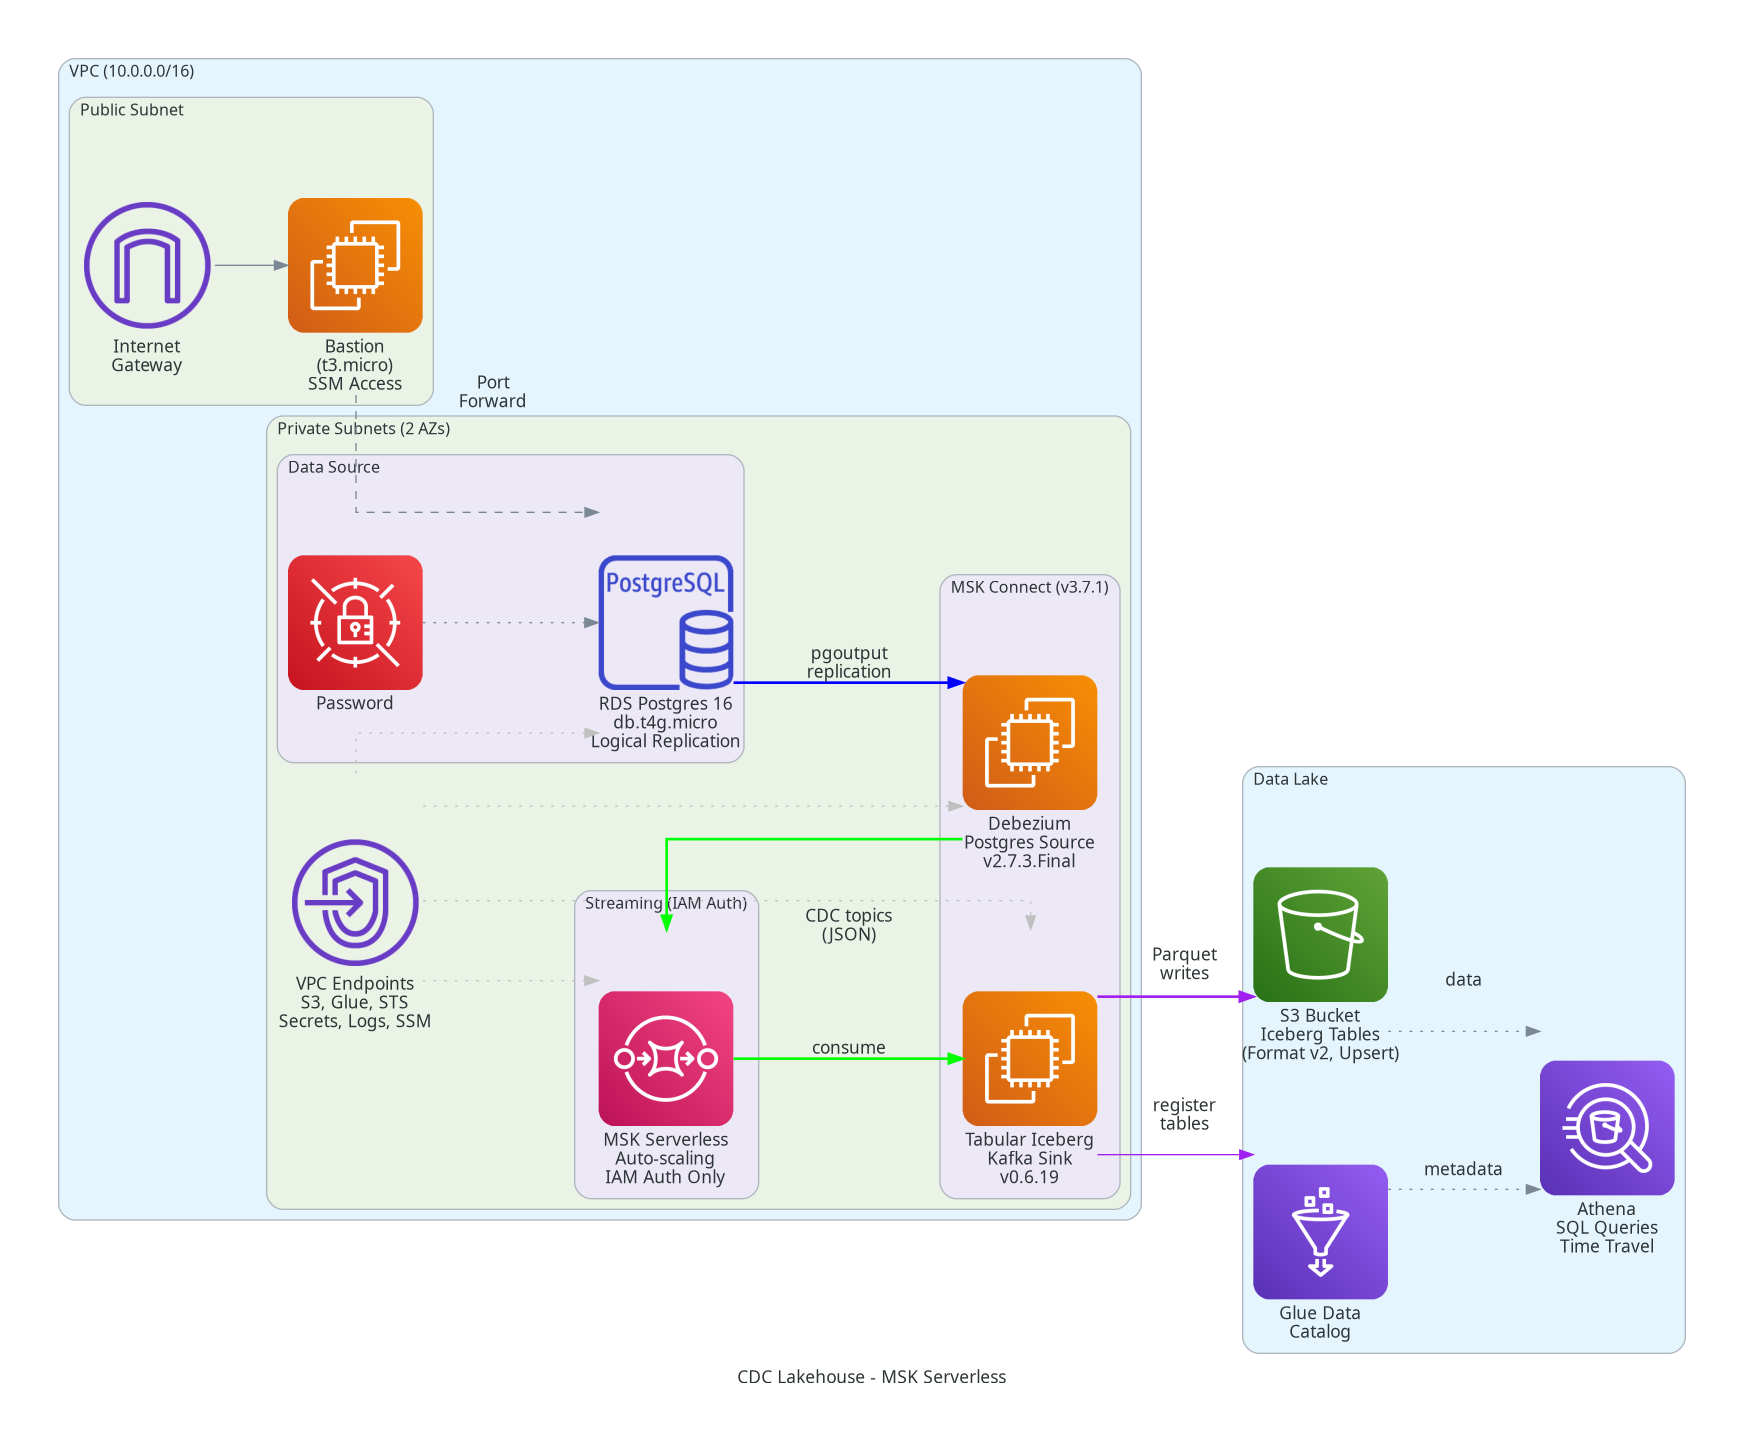
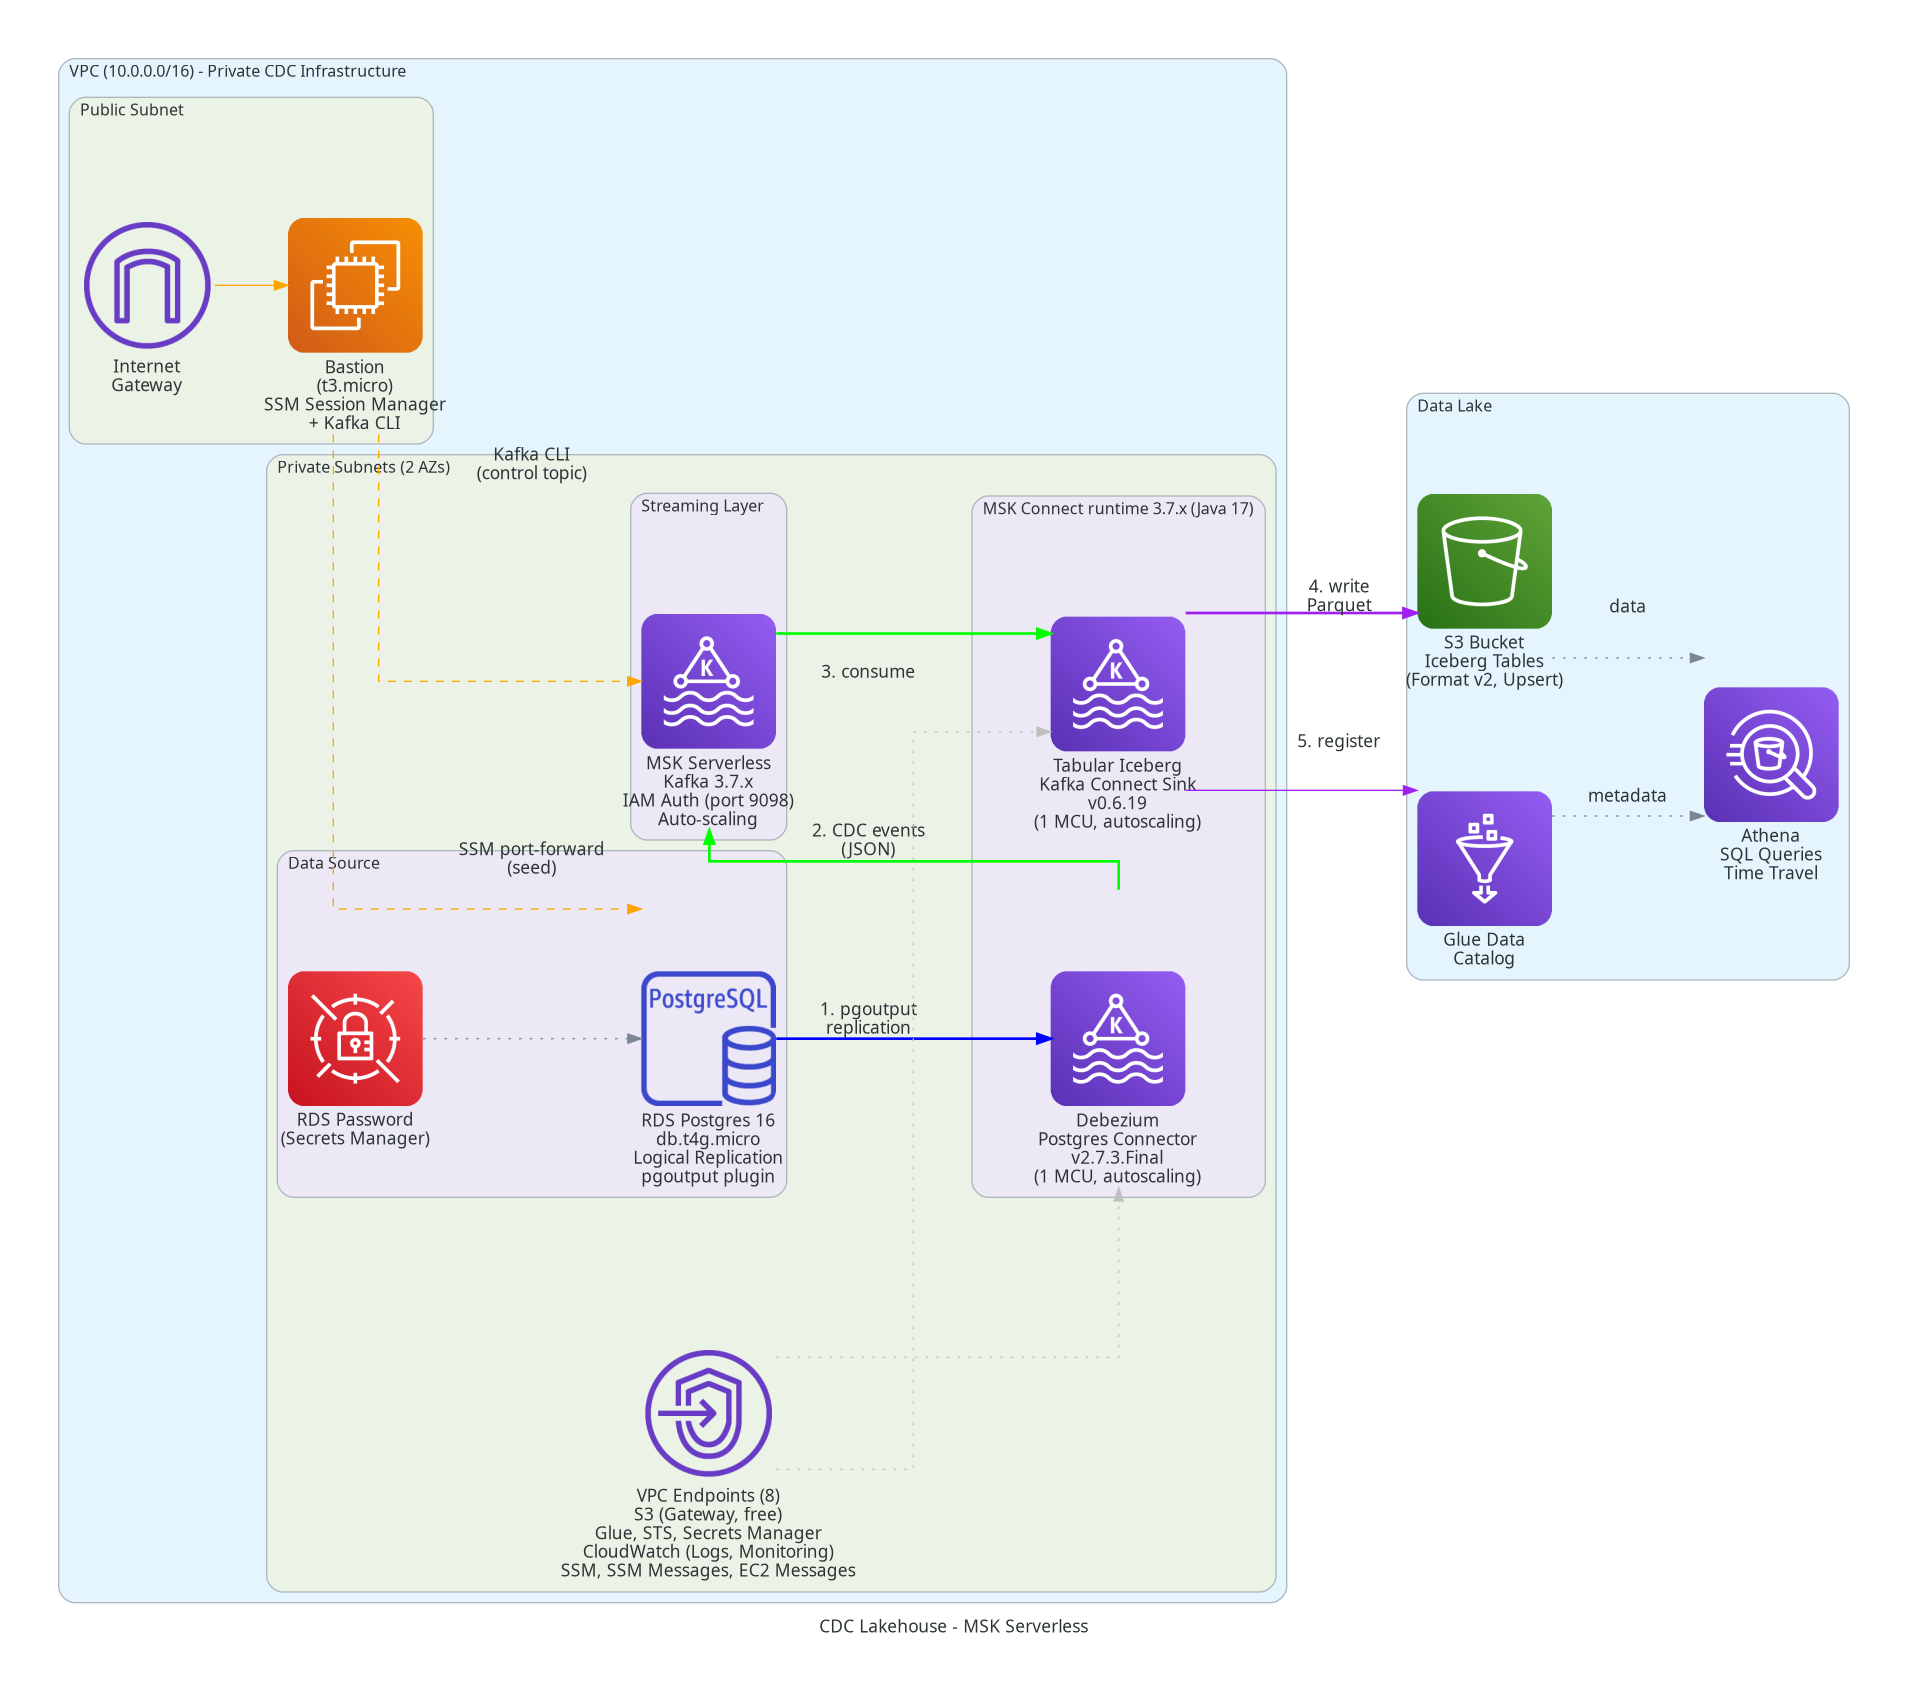
fix: endpoint counts, costs, diagram, glue region
SHOULD-FIX (completed):
- VPC endpoints: Correct count to 8 interface endpoints (was 6)
  - Added CloudWatch Monitoring and EC2 Messages to docs
  - Cost: 8 × 2 AZs × $0.01/hr = $0.16/hr (was $0.12/hr)
  - Total estimated cost: ~$1.17-1.20/hr (was $1.15/hr)
  - Update doctor.sh quota check for 8 endpoints
- Architecture diagram: Regenerate with 8 endpoints, MSK Connect icons
  - Use diagrams.aws.analytics.ManagedStreamingForKafka for connectors
  - Label runtime as 3.7.x (not v3.7.1)
  - Update endpoint list and note S3 Gateway is free
- Glue destroy provisioner: Add --region flag to aws glue commands

Updated in: README, CHANGELOG, doctor.sh, architecture.py, glue module

Changed region(s): [[0.031, 0.0312, 0.9908, 0.9681], [0.3406, 0.2811, 0.4025, 0.3123]]

diff --git a/docs/architecture.py b/docs/architecture.py
@@ -58,25 +58,25 @@ with Diagram(
                     "Auto-scaling"
                 )
             
-            with Cluster("MSK Connect (runtime 3.7.x, Java 17)"):
-                debezium = EC2(
-                    "Debezium\nPostgres Source\n" +
+            with Cluster("MSK Connect runtime 3.7.x (Java 17)"):
+                debezium = ManagedStreamingForKafka(
+                    "Debezium\nPostgres Connector\n" +
                     "v2.7.3.Final\n" +
-                    "(1 MCU)"
+                    "(1 MCU, autoscaling)"
                 )
                 
-                iceberg_sink = EC2(
-                    "Tabular Iceberg\nKafka Sink\n" +
+                iceberg_sink = ManagedStreamingForKafka(
+                    "Tabular Iceberg\nKafka Connect Sink\n" +
                     "v0.6.19\n" +
-                    "(1 MCU)"
+                    "(1 MCU, autoscaling)"
                 )
             
             endpoints = Endpoint(
-                "VPC Endpoints (6)\n" +
-                "S3 (Gateway)\n" +
-                "Glue, STS, Secrets\n" +
-                "CloudWatch Logs\n" +
-                "SSM (3 endpoints)"
+                "VPC Endpoints (8)\n" +
+                "S3 (Gateway, free)\n" +
+                "Glue, STS, Secrets Manager\n" +
+                "CloudWatch (Logs, Monitoring)\n" +
+                "SSM, SSM Messages, EC2 Messages"
             )
     
     with Cluster("Data Lake"):

diff --git a/README.md b/README.md
@@ -62,11 +62,11 @@ This is v0.1.0—a solid foundation, not a complete production system.
 ### Connectivity
 
 - **Private VPC** with no NAT gateway (cost optimization)
-- **VPC Endpoints**: S3 Gateway, plus 6 Interface endpoints for Glue, STS, Secrets Manager, CloudWatch Logs, SSM (3 endpoints for Session Manager)
+- **VPC Endpoints**: S3 Gateway (free), plus 8 Interface endpoints (Glue, STS, Secrets Manager, CloudWatch Logs, CloudWatch Monitoring, SSM, SSM Messages, EC2 Messages)
 - **Bastion**: t3.micro EC2 instance in a public subnet with public IP for SSM Session Manager port forwarding to RDS
 - **MSK Connect** runs in private subnets with IAM-based Kafka authentication
 
-**Design choice**: 6 interface endpoints × 2 AZs × $0.01/hr = $0.12/hr vs NAT Gateway at $0.045/hr + data transfer. Endpoints are more expensive for always-on production use but simpler for short tests and this demo architecture avoids NAT Gateway complexity. For long-running production, evaluate NAT Gateway + fewer endpoints.
+**Design choice**: 8 interface endpoints × 2 AZs × $0.01/hr = $0.16/hr vs NAT Gateway at $0.045/hr + data transfer. Endpoints are more expensive for always-on production use but simpler for short tests and this demo architecture avoids NAT Gateway complexity. For long-running production, evaluate NAT Gateway + fewer endpoints.
 
 ## Architecture Decisions
 
@@ -254,20 +254,20 @@ Based on **AWS us-east-1 pricing as of 2026-09-28** ([pricing pages cited below]
 | MSK Serverless partition-hours (~15) | $0.023/hour | [MSK Pricing](https://aws.amazon.com/msk/pricing/) |
 | MSK Connect (2 MCU-hours) | $0.220/hour | [MSK Pricing](https://aws.amazon.com/msk/pricing/) |
 | **Networking** | | |
-| VPC Interface Endpoints (6 × 2 AZs) | $0.120/hour | [VPC Pricing](https://aws.amazon.com/vpc/pricing/) |
+| VPC Interface Endpoints (8 × 2 AZs) | $0.160/hour | [VPC Pricing](https://aws.amazon.com/vpc/pricing/) |
 | Public IPv4 address | $0.005/hour | [VPC Pricing](https://aws.amazon.com/vpc/pricing/) |
 | **Storage & Queries** | | |
 | S3 Standard storage | $0.023/GB/month | [S3 Pricing](https://aws.amazon.com/s3/pricing/) |
 | Athena queries | $5.00/TB scanned | [Athena Pricing](https://aws.amazon.com/athena/pricing/) |
 | CloudWatch Logs | $0.50/GB ingested | [CloudWatch Pricing](https://aws.amazon.com/cloudwatch/pricing/) |
 
-**Total estimated hourly cost**: ~$1.15/hour  
+**Total estimated hourly cost**: ~$1.17-1.20/hour (estimate; actual cost depends on MSK Serverless partition count and data transfer)  
 **Estimated cost for 1-hour test**: ~$1.20
 
 **Breakdown details**:
 - MSK Serverless: $0.75/cluster-hr + (15 partitions × $0.0015/partition-hr) = $0.773/hr
 - MSK Connect: 2 connectors × 1 MCU each × $0.11/MCU-hr = $0.22/hr
-- VPC Endpoints: 6 endpoints × 2 AZs × $0.01/endpoint-AZ-hr = $0.12/hr
+- VPC Endpoints: 8 endpoints × 2 AZs × $0.01/endpoint-AZ-hr = $0.16/hr
 
 **After `make down`**: Cost drops to ~$0 within minutes. S3 and CloudWatch Logs charges are minimal for test workloads.
 

diff --git a/CHANGELOG.md b/CHANGELOG.md
@@ -41,7 +41,7 @@ Initial release of AWS CDC Lakehouse Starter. This is a **learning reference** d
   - RDS parameter: `wal_sender_timeout=0` (no timeout; holds slot indefinitely if connector stops)
   - AWS Glue Data Catalog for Iceberg metadata
   - Amazon Athena workgroup for queries
-  - Private VPC with S3 Gateway endpoint + 6 Interface endpoints (Glue, STS, Secrets Manager, CloudWatch Logs, SSM × 3)
+  - Private VPC with S3 Gateway endpoint + 8 Interface endpoints (Glue, STS, Secrets Manager, CloudWatch Logs, CloudWatch Monitoring, SSM, SSM Messages, EC2 Messages)
   - Bastion t3.micro in public subnet with public IP for SSM Session Manager access
 
 - **Staged deployment flow**:
@@ -54,7 +54,7 @@ Initial release of AWS CDC Lakehouse Starter. This is a **learning reference** d
 - **Documentation**:
   - Architecture diagram (generated PNG via `diagrams` library)
   - Honest README with MSK Serverless rationale, cost analysis, limitations, and "when not to use"
-  - Cost analysis: ~$1.15/hr (verified 2026-09-28 pricing)
+  - Cost analysis: ~$1.17-1.20/hr estimated (verified 2026-09-28 pricing)
   - Connector version compatibility notes
 
 - **Helper scripts**:
@@ -130,7 +130,7 @@ Initial release of AWS CDC Lakehouse Starter. This is a **learning reference** d
 - EC2 t3.micro bastion: $0.010/hr
 - VPC Interface endpoints (6 × 2 AZs): $0.12/hr
 - Public IPv4: $0.005/hr
-- **Total: ~$1.15/hr**
+- **Total: ~$1.17-1.20/hr estimated**
 
 ### References
 
